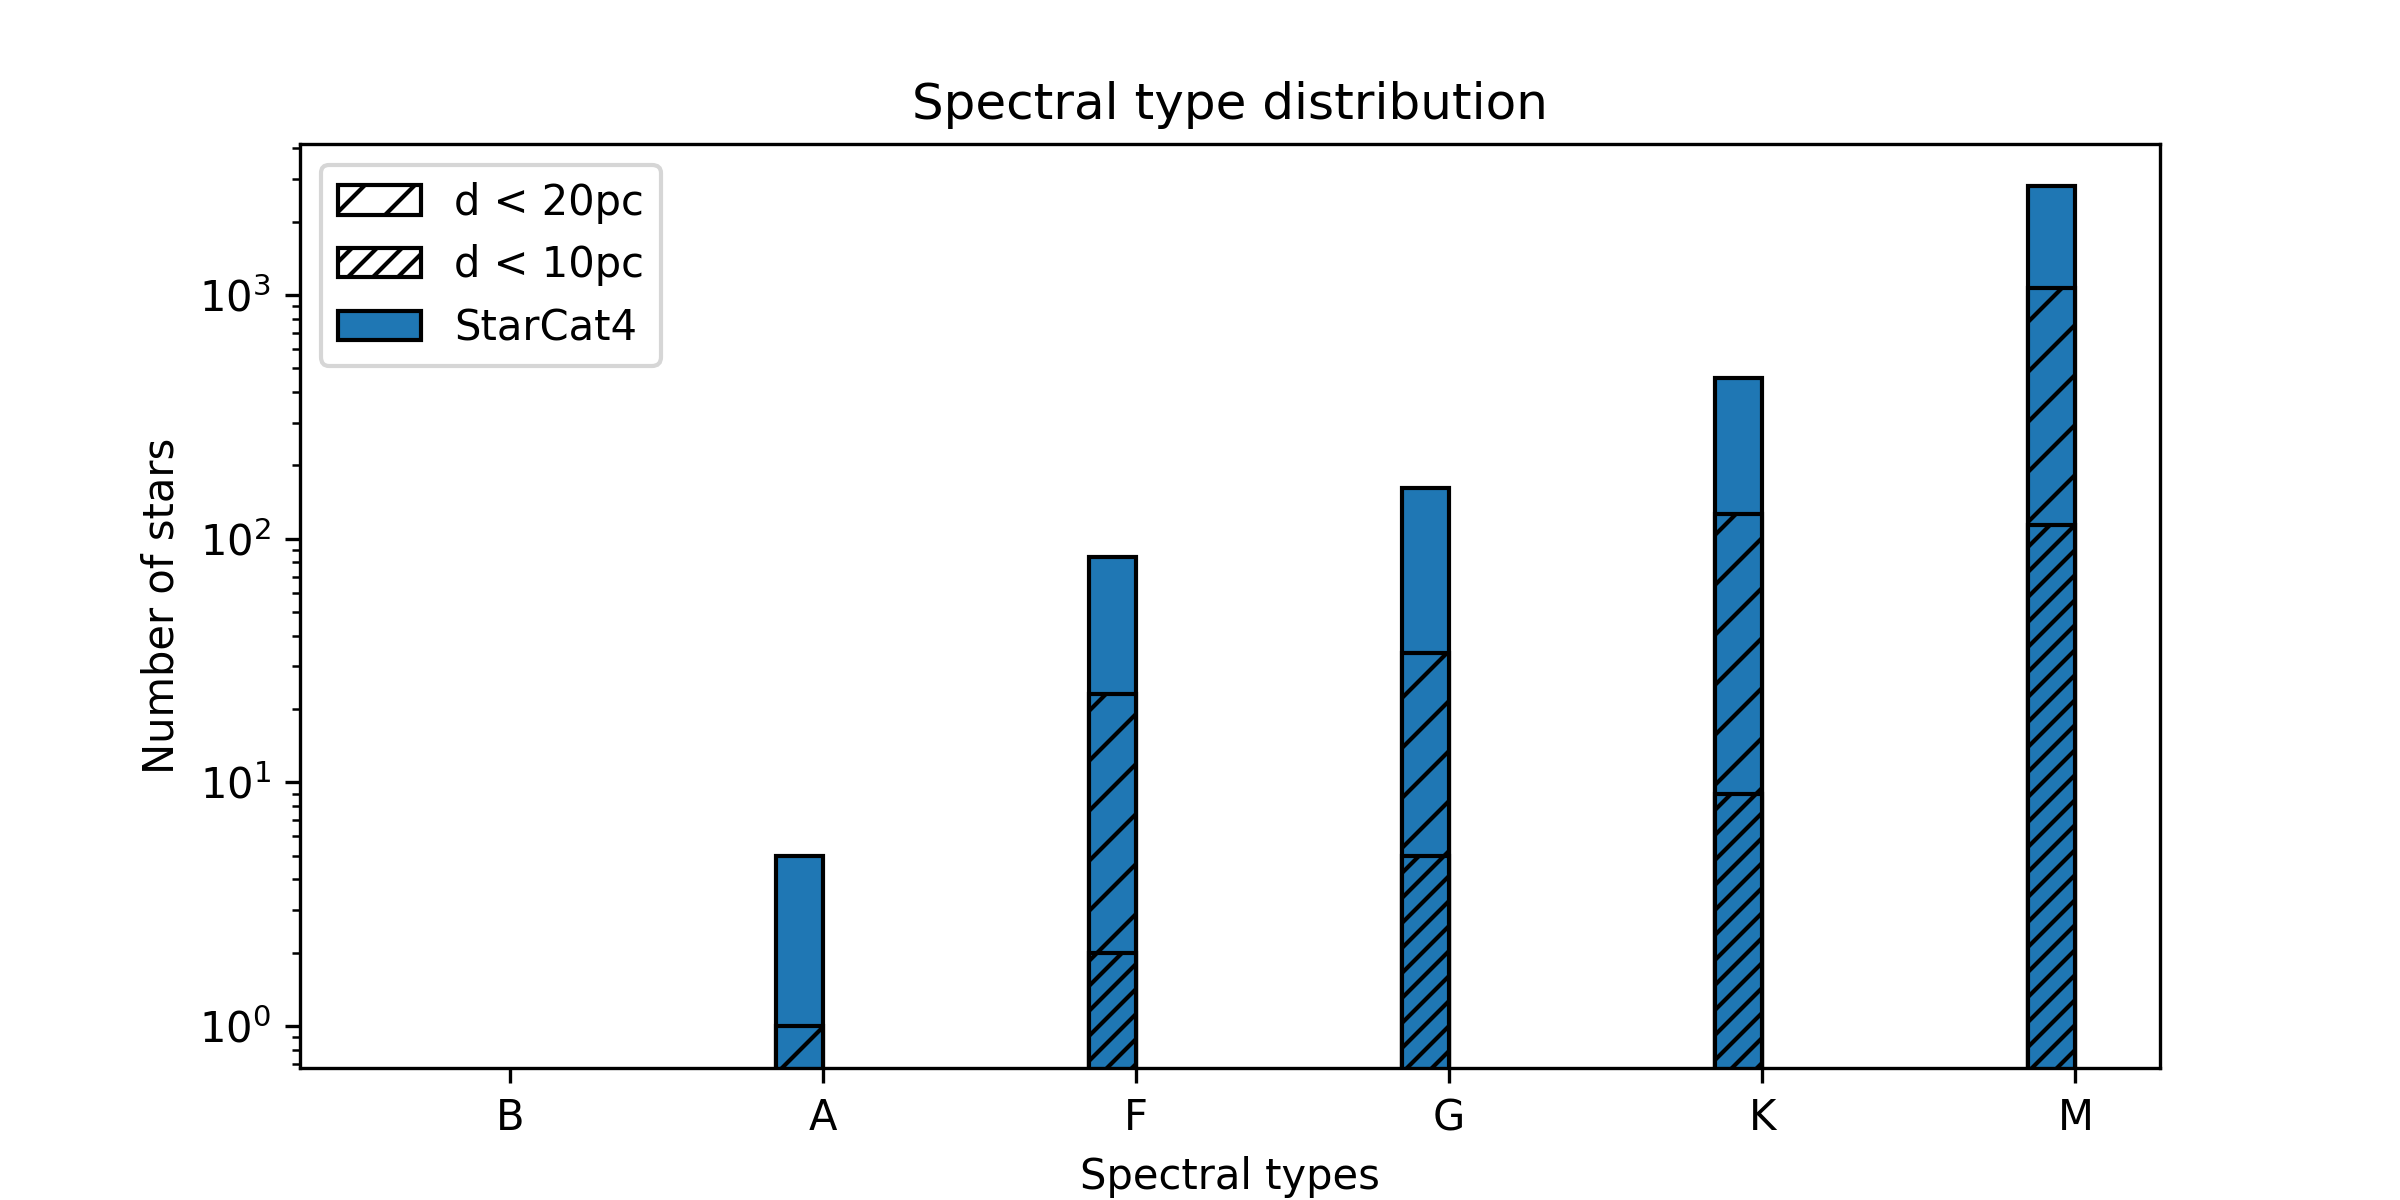
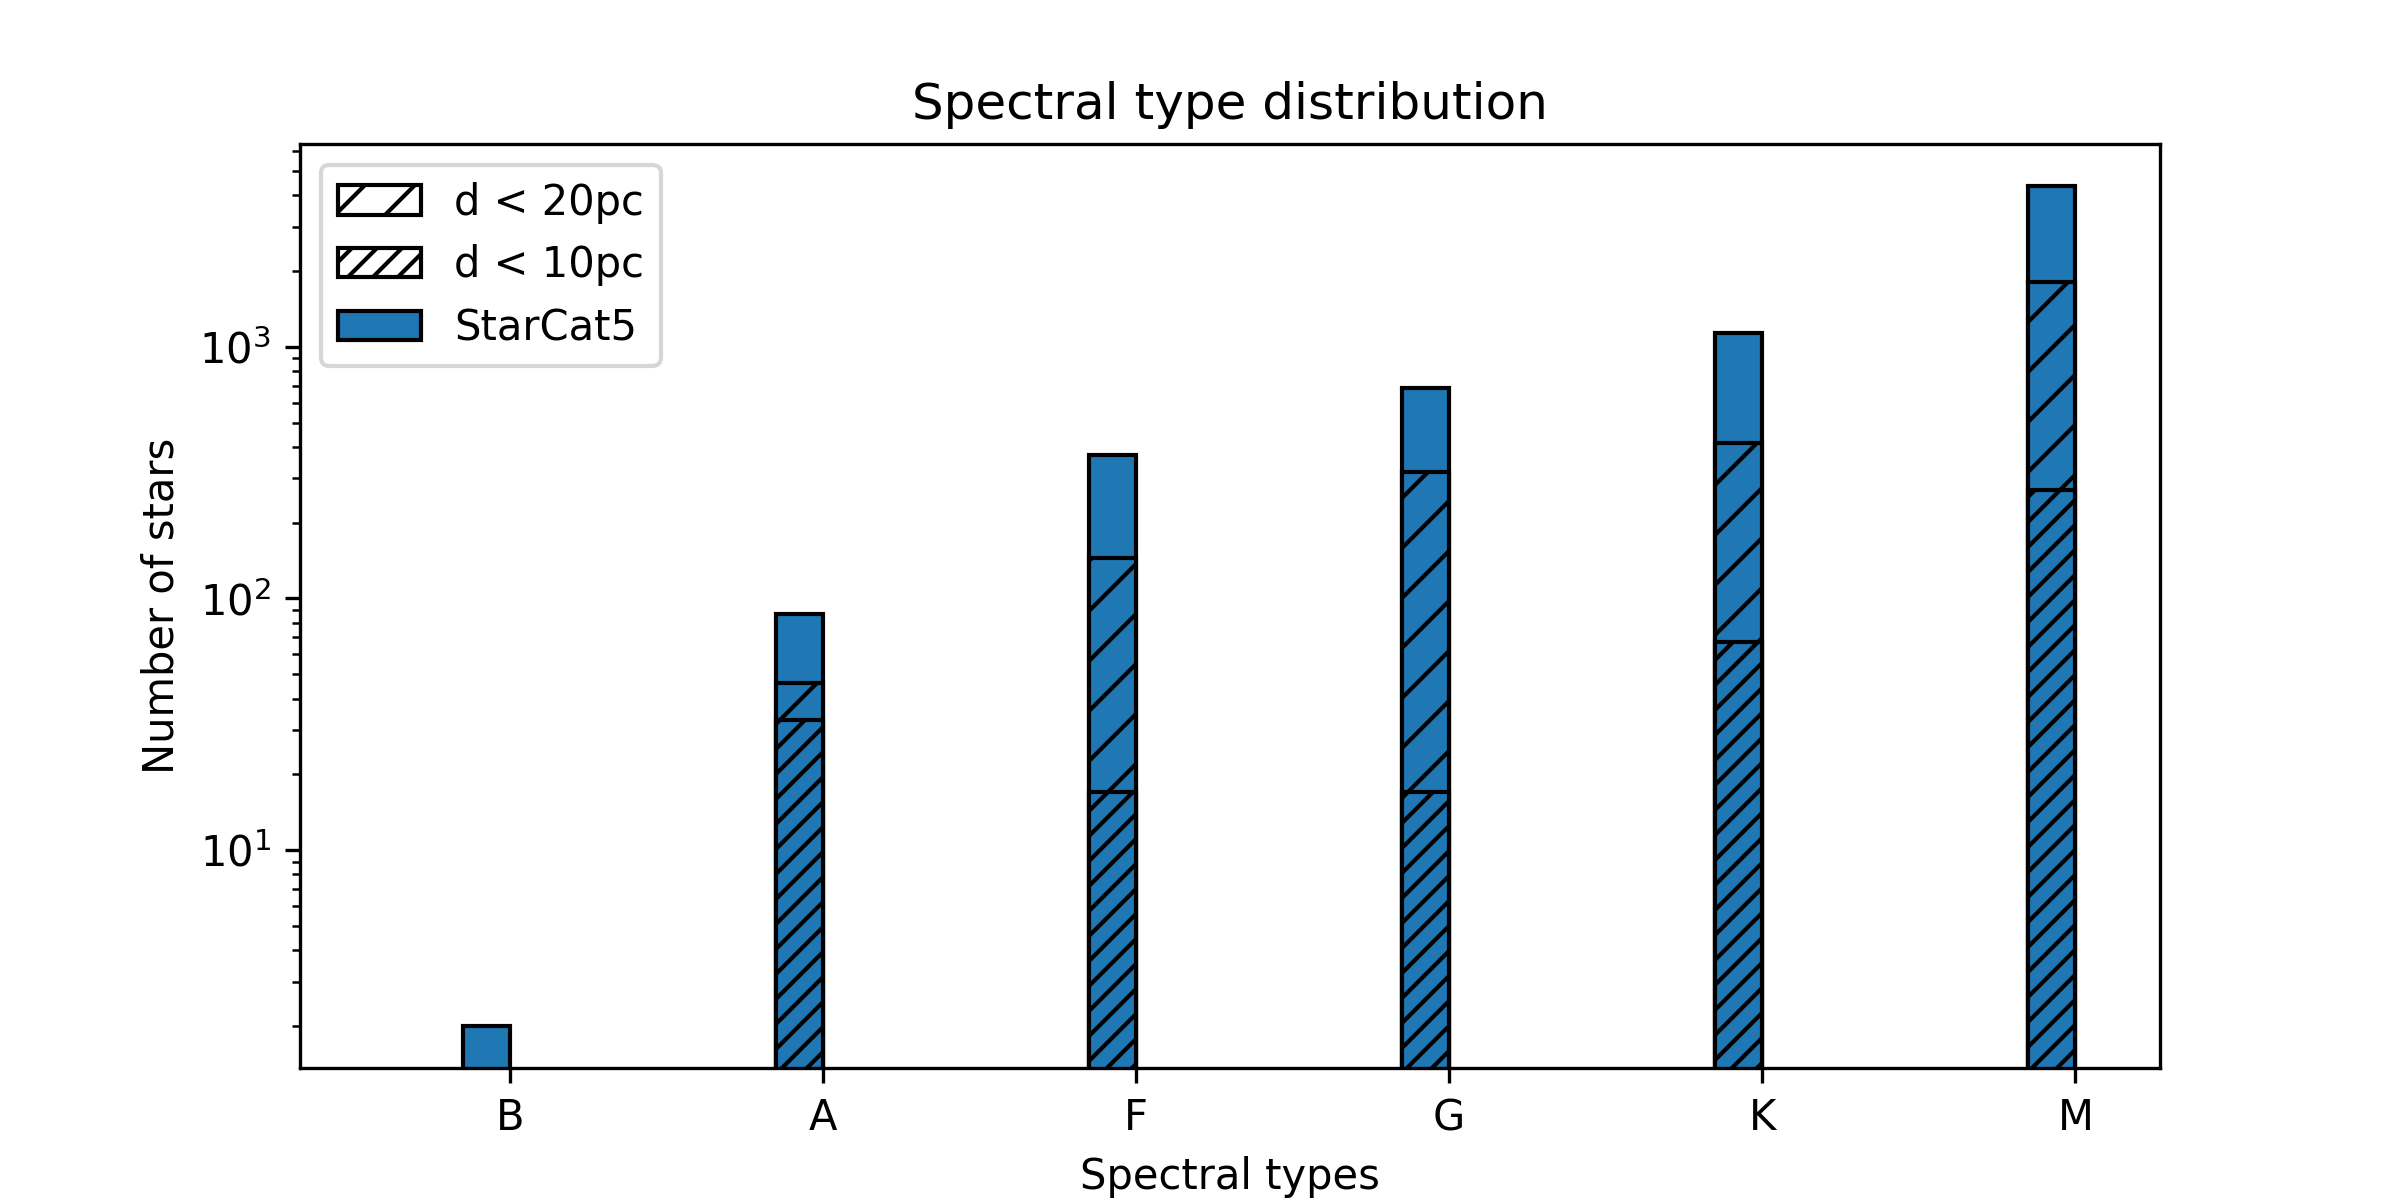
minor changes

diff --git a/data_generation/life_td_data_generation/catalog/ltc4_analysis.py b/data_generation/life_td_data_generation/catalog/ltc4_analysis.py
@@ -2,24 +2,25 @@ import numpy as np #arrays
 import astropy as ap #votables
 import importlib #reloading external functions after modification
 import seaborn as sns
-import sys  
+import sys
 from matplotlib import pyplot as plt
 
-sys.path.append('../../implementation/life/data_generation/life_td_data_generation') 
+sys.path.append('../../implementation/life/data_generation/life_td_data_generation')
 
 #self created modules
 from utils.io import save, load, stringtoobject, Path
-from utils.catalog_comparison import create_common
-import analysis as la
+from utils.analysis.catalog_comparison import create_common
+import utils.analysis.analysis as la
 importlib.reload(la)#reload module after changing it
-import LIFE_StarCat4 as ltc4
+import starcat4 as ltc4
+#import LIFE_StarCat4 as ltc4
 importlib.reload(ltc4)#reload module after changing it
 import provider as p
 importlib.reload(p)#reload module after changing it
 
-para3=['sim_ra', 'sim_dec', 'sim_plx', 'distance', 'gal_coord_l', 'gal_coord_b', 
+para3=['sim_ra', 'sim_dec', 'sim_plx', 'distance', 'gal_coord_l', 'gal_coord_b',
        'mod_Teff', 'mod_R', 'mod_M', 'sep_phys',  'sim_i', 'sim_j']
-para4=['coo_ra', 'coo_dec', 'plx_value', 'dist_st_value', 'coo_gal_l', 'coo_gal_b', 
+para4=['coo_ra', 'coo_dec', 'plx_value', 'dist_st_value', 'coo_gal_l', 'coo_gal_b',
        'teff_st_value', 'radius_st_value','mass_st_value','sep_phys_value',  'mag_i_value', 'mag_j_value']
 
 para_hwo=['ra', 'dec', 'sy_plx', 'sy_dist', 'st_teff', 'st_rad', 'st_mass']
@@ -30,12 +31,12 @@ para_starcat4=['coo_ra', 'coo_dec', 'plx_value', 'dist_st_value', 'teff_st_value
 def analysis(StarCat4,distance_cut_in_pc):
     """
     This Function analyses the StarCat4.
-    
+
     :param StarCat4:
     :type StarCat4:
     :param float distance_cut_in_pc:
     """
-    
+
     la.spechistplot([StarCat4['class_temp'][np.where(StarCat4['binary_flag']=='False')], \
               StarCat4['class_temp'][np.where(StarCat4['binary_flag']=='True')],StarCat4['class_temp']]\
              ,['Singles','Binaries','Total'],'spechist')
@@ -43,7 +44,7 @@ def analysis(StarCat4,distance_cut_in_pc):
     la.final_plot([StarCat4['class_temp','dist_st_value']],['LIFE-StarCat4'],distance_cut_in_pc)
 
     within45deg=StarCat4[np.where(StarCat4['ecliptic_pm45deg']=='True')]
-    
+
     print('if we cut for architecture reason everything above and below +45 deg, -45 deg respectively')
     print(f'we are left with {np.round(100*len(within45deg)/len(StarCat4),1)}% of our stars')
     print(f'this corresponds to a factor of {np.round(len(StarCat4)/len(within45deg),1)} fewer')
@@ -55,11 +56,11 @@ def analysis(StarCat4,distance_cut_in_pc):
 def create_updated_ltc3():
     """
     This function updates the StarCat3 with newer main_id's.
-    
+
     :returns: LIFE-StarCat3 with updated main_id from SIMBAD.
     :rtype: astropy.table.table.Table
     """
-    
+
     #load LTC3
     ltc3=ap.io.ascii.read("data/LIFE-StarCat3.csv")
     ltc3=stringtoobject(ltc3,3000) #len 1732
@@ -83,15 +84,15 @@ def create_updated_ltc3():
     [StarCat4]=load(['StarCat4'],location='data/')
     in_3_but_not_in_4=newltc3[np.where(np.invert(np.in1d(newltc3['main_id'],StarCat4['main_id'])))]
     print('in_3_but_not_in_4',in_3_but_not_in_4)
-    save([in_3_but_not_in_4],['in_3_but_not_in_4'],location='data/')    
+    save([in_3_but_not_in_4],['in_3_but_not_in_4'],location='data/')
     return newltc3
 
 
 def prepare_dataframe_for_sns(table,paras,labels):
     """
     This function prepares the dataframe for seaborn boxplot.
-    
-    :param table: Table containing two data sets and the column 
+
+    :param table: Table containing two data sets and the column
         names given in paras as well as class_temp column.
     :type table: astropy.table.table.Table
     :param paras: Column names of table with first list corresponding to first lables entry.
@@ -113,14 +114,14 @@ def prepare_dataframe_for_sns(table,paras,labels):
 def snsplot(df,y,path):
     """
     This function creates a boxplot.
-    
+
     :param df:
     :type df:
     :param y:
     :type y:
     :param str path:
     """
-    
+
     plt.figure()
     sns.boxplot(data=df,x="class_temp",y=y ,hue='catalog',order=['F','G','K','M'])
     plt.savefig(path+'.png')
@@ -134,15 +135,15 @@ def snsplot(df,y,path):
 def threecatboxplot(data,para):
     """
     This function creates a boxplot.
-    
+
     :param data:
     :type data:
     :param para:
     :type para:
     """
-    
+
     fig = plt.figure()
- 
+
     # Creating axes instance
     ax = fig.add_axes([0, 0, 1,1])
     plt.ylabel(para)
@@ -157,14 +158,14 @@ def threecatboxplot(data,para):
 def create_hwo():
     """
     Prepares hwo catalog for comparison to LIFE-StarCat4.
-    
+
     Reads the HWO SPORES catalog file, adds SIMBAD main identifiers and transforms
     StarCat4 comparable columns from type string to float.
-    
+
     :returns: Table containing HWO catalog data.
     :rtype: astropy.table.table.Table
     """
-    
+
     spores_raw=ap.io.ascii.read("data/spores_catalog_v1.2.0.csv")#,header_start=0,)
     spores_raw=stringtoobject(spores_raw,3000)
     colnames=list(spores_raw[0])
@@ -199,11 +200,11 @@ def create_hpic():
 
 
 def distance_boxplot_catalog_comparison(ax2):
-    
+
     #don't have a join thingy so might need to adapt stuff
     #df=prepare_dataframe_for_sns(join_34,[para3,para4],labels)
     #I need class_temp for spectral type sorting. can do that too with the specsomething function
-    
+
     seaborn_join=table[['class_temp']+paras[0]].copy()
     seaborn_join['catalog']=[labels[0] for j in range(len(seaborn_join))]
     temp=table[['class_temp']+paras[1]].copy()
@@ -211,50 +212,50 @@ def distance_boxplot_catalog_comparison(ax2):
     seaborn_join.rename_columns(paras[0],paras[1])
     seaborn_join=ap.table.vstack([seaborn_join,temp])
     df=seaborn_join.to_pandas()
-    
+
     snsplot(df,'dist_st_value')
-    
-    
-    return 
+
+
+    return
 
 def ltc4_comparison(create=False,distance_cut_in_pc=30.,boxplots=True,finalplots=True):
     """
     This function compares StarCat4 to StarCat3 and HWO catalog SPORES.
-    
+
     :param bool load: Defaults to True, determines if tables are created or loaded.
     :param float distance_cut_in_pc: Defaults to 30., determines distance cut of StarCat4 if load=False.
     """
-    
+
     if create:
         StarCat4=ltc4.StarCat_creation(distance_cut_in_pc,querying=True)
         newltc3=create_updated_ltc3()
         common_newltc3,common_StarCat43=create_common(newltc3,StarCat4)
         join_34=ap.table.join(common_newltc3,common_StarCat43,keys='main_id')
-        save([join_34],['join_34'],location='data/')   
+        save([join_34],['join_34'],location='data/')
         hwo=create_hwo()
         common_hwo,common_StarCat4hwo=create_common(hwo,StarCat4)
         save([common_newltc3,common_StarCat43,
                 common_hwo,common_StarCat4hwo],
                 ['common_newltc3','common_StarCat43',
-                'common_hwo','common_StarCat4hwo'],location='data/')   
+                'common_hwo','common_StarCat4hwo'],location='data/')
         join_hwo4=ap.table.join(common_hwo,common_StarCat4hwo,keys='main_id')
-        save([join_hwo4],['join_hwo4'],location='data/')  
-        
+        save([join_hwo4],['join_hwo4'],location='data/')
+
         hpic=create_hpic()
-        
+
     else:
         [StarCat4]=load(['StarCat4'],location='data/')
         [newltc3]=load(['newltc3'],location='data/')
         [hpic]=load(['hpic'],location='data/')
-        
+
         [join_34]=load(['join_34'],location='data/')
         [join_hwo4]=load(['join_hwo4'],location='data/')
         [hwo]=load(['hwo'],location='data/')
         [common_newltc3,common_StarCat43,common_hwo,common_StarCat4hwo]=\
                 load(['common_newltc3','common_StarCat43',
                 'common_hwo','common_StarCat4hwo'],location='data/')
-        
-           
+
+
     if boxplots:
         #comparing only objects that are in both catalogs
         df_34=prepare_dataframe_for_sns(join_34,[para3,para4],['3','4'])
@@ -266,7 +267,7 @@ def ltc4_comparison(create=False,distance_cut_in_pc=30.,boxplots=True,finalplots
 
         for y in para_starcat4:
             snsplot(df_hwo4,y,'plots/sns_hwo_4'+y)
-    
+
 
         #comparing all objects in the catalogs
         data = [newltc3['distance'],StarCat4['dist_st_value'], hwo['sy_dist']]
@@ -280,21 +281,21 @@ def ltc4_comparison(create=False,distance_cut_in_pc=30.,boxplots=True,finalplots
 
         data = [newltc3['mod_Teff'],StarCat4['teff_st_value'], hwo['st_teff']]
         threecatboxplot(data,'Stellar_Effective_Temperature')
-    
+
     if finalplots:
-    
+
         la.final_plot([StarCat4['class_temp','dist_st_value'],newltc3['sim_sptype','distance']],
                   ['LIFE-StarCat4','LIFE-StarCat3'],path='plots/final_plot_34.png')
-    
+
         la.final_plot([common_StarCat43['class_temp','dist_st_value'],common_newltc3['sim_sptype','distance']],
                   ['common_LIFE-StarCat4','common_LIFE-StarCat3'],path='plots/final_plot_common_34.png')
-    
+
         la.final_plot([StarCat4['class_temp','dist_st_value'],hwo['st_spectype','sy_dist']],
                   ['LIFE-StarCat4','SPORES'],path='plots/final_plot_hwo.png')
-    
+
         la.final_plot([common_StarCat4hwo['class_temp','dist_st_value'],common_hwo['st_spectype','sy_dist']],
                   ['LIFE-StarCat4','SPORES'],path='plots/final_plot_common_hwo.png')
-    
+
         la.final_plot([hwo['st_spectype','sy_dist'],StarCat4['class_temp','dist_st_value'],
                   hpic['st_spectype','sy_dist']],
                   ['SPORES','LIFE-StarCat4','HPIC'],path='plots/final_plot_hwo_life.png')